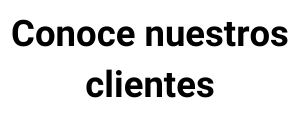
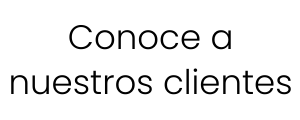
agregamos animaciones, cambiamos la foto de intro, cambiamos la fuente, cambiamos el orden de los oobjetos y modificamos los textos

Changed region(s): [[0.03, 0.15, 0.96, 0.425], [0.03, 0.55, 0.99, 0.825]]

diff --git a/STYLE/style.css b/STYLE/style.css
@@ -2,7 +2,7 @@
     margin: 0;
     padding: 0;
     box-sizing: border-box;
-    font-family: 'Roboto', sans-serif;
+    font-family: 'Poppins', sans-serif;
     }
 
 
@@ -14,22 +14,24 @@
 
 .grid-container {
     display: grid;
-    grid-template-columns: auto;
-    grid-template-rows: auto;
-    gap: 20px 20px;
-    padding: 5px;
+    grid-template-columns: repeat(2, auto);
+    grid-template-rows: repeat(3, auto);
 }
 
 /* HEADER */
 
 .base {
-    background-color: #dedede;
+    background-color: #003566;
     display: flex;
     gap: 15px;
     padding: 20px;
     justify-content: space-between;
     margin: 0;
     align-items: center;
+    grid-column-start: 1;
+    grid-column-end: 3;
+    grid-row-start: 1;
+    grid-row-end: 2;
 }
 .paginas {
     display: flex;
@@ -40,57 +42,103 @@
 }
 
 .paginas li a{
-    color: black;
+    color: white;
     text-decoration: none;
     list-style: none;
 }
 
 .paginas li a:hover {
-    color:white;
-
-
+    color: #ffc300;
 }
 
 /* BODY INTRO*/
 
 .intro {
-    background-color: black;
+    background-color: #ffc300;
     display: flex;
     gap: 0px;
     padding: 0px;
     justify-content: center;
     margin: 0;
     align-items: center;
+    grid-column-start: 1;
+    grid-column-end: 3;
+    grid-row-start: 2;
+    grid-row-end: 3;
 }
 
 .botonSolicitarCotizacion {
     display: flex;
     justify-content: center;
+    animation: efecto-entrada2;
+    animation-duration: 1.5s;
+    animation-delay: 0s;
+
 }
 
 .fotoIntro {
     justify-content: center;
-
 }
 
 .textoIntro {
     grid-column-start: 3;
     grid-column-end: 4;
     text-align: center;
+    font-size: 20px;
+    color: black;
+    padding: 7px;
+}
+
+.boxAnimadoIntro {
+    animation-name: efecto-entrada;
+    animation-duration: 1.5s;
+    animation-delay: 0s;
+    background-color: #003566;
+    color: white;
+    text-align: center;
+    font-size: 25px;
+    padding: 5px;
+}
+
+/* ANIMACIONES */
+
+@keyframes efecto-entrada {
+    0% {
+        margin-left: 100%;
+        width: 300%;
+    }
+    100% {
+        margin-left: 0%;
+        width: 100%;
+    }
+}
+
+@keyframes efecto-entrada2 {
+    0% {
+        margin-right: 100%;
+        width: 300%;
+    }
+    100% {
+        margin-right: 0%;
+        width: 100%;
+    }
 }
 
 
-
-
 /* FOOTER */
+
 .footer {
-    background-color: #dedede;
+    background-color: #003566;
     display: flex;
     gap: 15px;
     padding: 20px;
     justify-content: space-between;
     margin: 0;
     align-items: center;
+    grid-column-start: -3;
+    grid-column-end: -1;
+    grid-row-start: -2;
+    grid-row-end: -1;
 }
 .redes {
     display: flex;
@@ -101,7 +149,7 @@
 }
 
 .redes li a{
-    color: black;
+    color: white;
     text-decoration: none;
     list-style: none;
 }

diff --git a/index.html b/index.html
@@ -9,6 +9,9 @@
     <style>
         @import url('https://fonts.googleapis.com/css2?family=Roboto&family=Tiro+Bangla&display=swap');
     </style>
+    <style>
+        @import url('https://fonts.googleapis.com/css2?family=Poppins:wght@300&display=swap');
+    </style>
     <link rel="stylesheet" href="https://cdnjs.cloudflare.com/ajax/libs/animate.css/4.1.1/animate.min.css"/>
    
     </head>
@@ -18,7 +21,7 @@
     <div class="grid-container">
 
         <header class="base">
-            <img src="./RECURSOS/logoTecnyselec.png" alt="Logo Tecnyselec" width="200" height="75">
+            <a href="./index.html"><img src="./RECURSOS/logoTecnyselec.png" alt="logoTecnyselec" width = 200px height = 75px></a>
             <nav  class="menu">     <!-- Comienza menú de navegación --> 
                 <ul class="paginas">
                     <h3><li><a href="./index.html">Nosotros</a></li></h3>
@@ -32,22 +35,24 @@
 
         <section class="intro">
             <div class="introGridContainer">
+                <div class="fotoIntro">
+                    <img src="./RECURSOS/fotoIntro.png" alt="Foto Intro", width="100%">
+                <div class="boxAnimadoIntro">
+                    <h2>Somos líderes en soluciones integrales de tecnología y asesoría en proyectos de estacionamiento.</h2>
+                </div>
+                <div class="textoIntro">
+                    <h3>Gracias a nuestro gran equipo y experiencia, hemos entregado soluciones a empresas privadas, centros comericales, Pymes, dependencias de gobierno en el noroeste del país por más de 20 años.</h3>
+                </div>
                 <br>
                 <div class="botonSolicitarCotizacion">
                     <a href="./contacto.html"><img src="./RECURSOS/solicitaUnaCotizacion.png" alt="Boton Solicitar Cotizacion"></a>
                 </div>
                 <br>
-                <div class="fotoIntro">
-                    <img src="./RECURSOS/fotoIntro.png" alt="Foto Intro", width="100%">
-                </div>
-                <div class="textoIntro">
-                    <h3>Con más de 20 años de experiencia en el mercado, colaboradores altamente capacitados, siempre brindando un servicio de excelencia a nuestros clientes.</h3>
-                </div>
             </div>
         </section>
 
         <footer class="footer">
-            <img src="./RECURSOS/logoTecnyselec.png" alt="Logo Tecnyselec" width="200" height="75">
+            <a href="./index.html"><img src="./RECURSOS/logoTecnyselec.png" alt="logoTecnyselec" width = 200px height = 75px></a>
             <nav class="menu">
                 <ul class="redes">
                     <li><a href="./contacto.html">Facebook</a></li>

diff --git a/servicios.html b/servicios.html
@@ -6,6 +6,9 @@
     <meta name="viewport" content="width=device-width, initial-scale=1.0">
     <title>Servicios</title>
     <link rel="stylesheet" href="./STYLE/style.css">
+    <style>
+        @import url('https://fonts.googleapis.com/css2?family=Poppins:wght@300&display=swap');
+    </style>
 </head>
 <body>
 

diff --git a/clientes.html b/clientes.html
@@ -6,6 +6,9 @@
     <meta name="viewport" content="width=device-width, initial-scale=1.0">
     <title>Clientes</title>
     <link rel="stylesheet" href="./STYLE/style.css">
+    <style>
+        @import url('https://fonts.googleapis.com/css2?family=Poppins:wght@300&display=swap');
+    </style>
 </head>
 <body>
 

diff --git a/contacto.html b/contacto.html
@@ -6,6 +6,9 @@
     <meta name="viewport" content="width=device-width, initial-scale=1.0">
     <title>Contacto</title>
     <link rel="stylesheet" href="./STYLE/style.css">
+    <style>
+        @import url('https://fonts.googleapis.com/css2?family=Poppins:wght@300&display=swap');
+    </style>
 </head>
 <body>
 

diff --git a/socios.html b/socios.html
@@ -6,6 +6,9 @@
     <meta name="viewport" content="width=device-width, initial-scale=1.0">
     <title>Socios</title>
     <link rel="stylesheet" href="./STYLE/style.css">
+    <style>
+        @import url('https://fonts.googleapis.com/css2?family=Poppins:wght@300&display=swap');
+    </style>
 </head>
 
 
